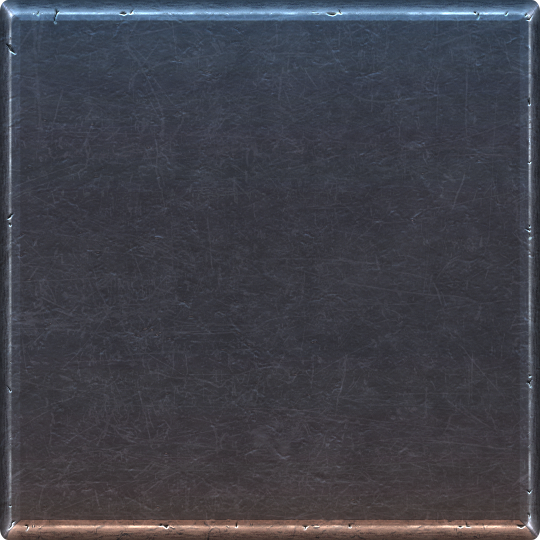
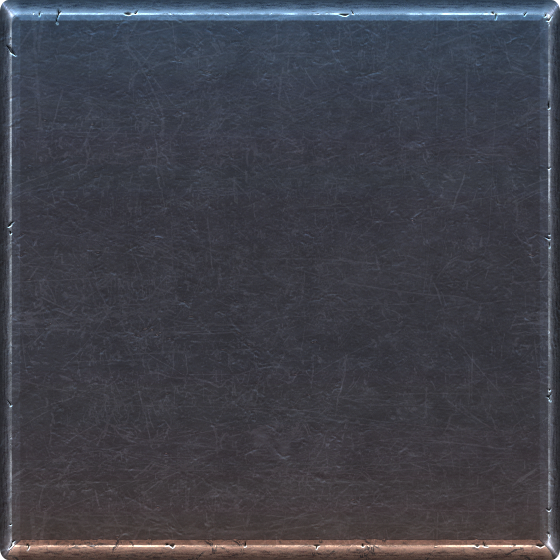
update assets

diff --git a/angular/src/app/board/board.component.scss b/angular/src/app/board/board.component.scss
@@ -6,10 +6,10 @@
 }
 
 .ui-kit-container{
-  width: 540px;
-  height: 540px;
-  padding-left: 10px;
-  padding-top: 10px;
+  width: 560px;
+  height: 560px;
+  padding-left: 20px;
+  padding-top: 20px;
   box-sizing: border-box;
   background-image: url('../../assets/images/metal_board_background.png');
 }

diff --git a/angular/src/app/app.component.scss b/angular/src/app/app.component.scss
@@ -2,6 +2,7 @@
   height: 50px;
   display: flex;
   flex-direction: row;
+  margin-bottom: 20px;
 
   .game-logo {
     height: 50px;
